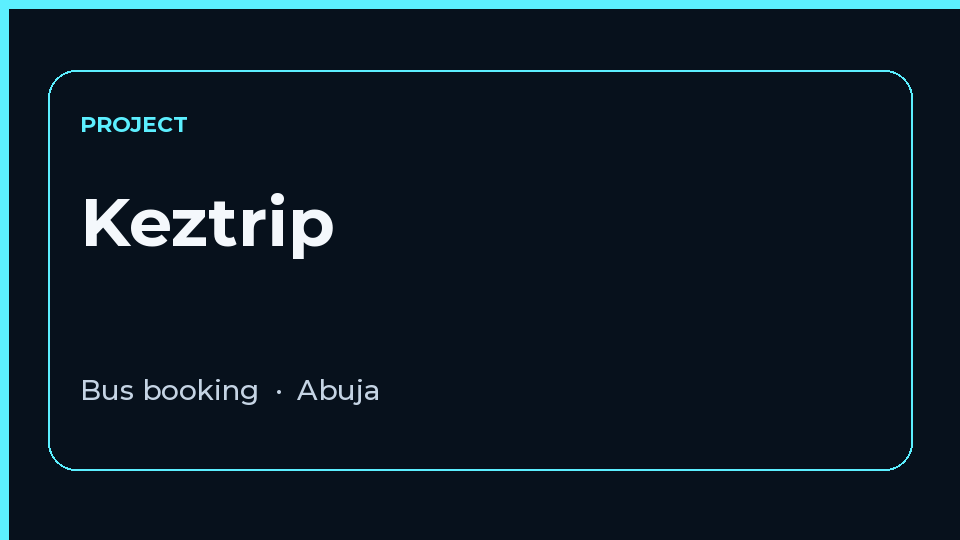
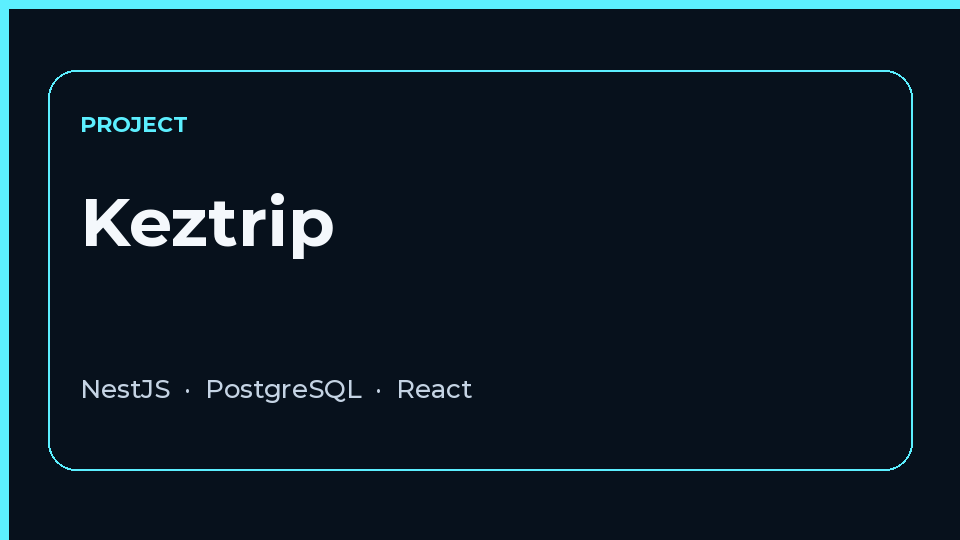
Describe Kehinde's Keztrip backend and admin dashboard.
Use the NestJS, PostgreSQL, React, and TypeScript work he confirmed, and link the site plus the store listings it publishes.

Changed region(s): [[0.0625, 0.6815, 0.5, 0.7704]]

diff --git a/index.html b/index.html
@@ -266,16 +266,23 @@
           <!-- No verified public URL for Sportsbook or Flight-Man. MEGA Flight is a 2025 Incentive Games title and is not the CV's Flight-Man, so it is not linked. -->
           <ul class="project-grid">
             <li>
-              <!-- TODO: add Kehinde's role and stack on Keztrip. This is not on the CV; fill in title and technologies here. -->
               <article class="project-card">
                 <img class="project-thumb" src="assets/projects/keztrip.png" width="960" height="540" alt="" decoding="async">
                 <div class="project-body">
                   <h3>Keztrip</h3>
-                  <p>Worked on Keztrip, a bus booking app based in Abuja.</p>
-                  <ul class="tags" aria-label="Company">
+                  <p>Built the NestJS and PostgreSQL backend, and the React and TypeScript admin dashboard, for Keztrip, a bus ride-hailing app in Abuja.</p>
+                  <ul class="tags" aria-label="Company and technologies">
                     <li class="tag-company">Keztrip</li>
+                    <li>NestJS</li>
+                    <li>PostgreSQL</li>
+                    <li>React</li>
+                    <li>TypeScript</li>
                   </ul>
-                  <a class="project-cta" href="https://keztrip.com/" target="_blank" rel="noopener noreferrer">Visit site<span class="visually-hidden"> for Keztrip (opens in a new tab)</span></a>
+                  <div class="project-links">
+                    <a class="project-cta" href="https://keztrip.com/" target="_blank" rel="noopener noreferrer">Visit site<span class="visually-hidden"> for Keztrip (opens in a new tab)</span></a>
+                    <a class="project-cta" href="https://play.google.com/store/apps/details?id=com.keztrip.app" target="_blank" rel="noopener noreferrer">Google Play<span class="visually-hidden"> for Keztrip (opens in a new tab)</span></a>
+                    <a class="project-cta" href="https://apps.apple.com/ng/app/keztrip/id6775054855" target="_blank" rel="noopener noreferrer">App Store<span class="visually-hidden"> for Keztrip (opens in a new tab)</span></a>
+                  </div>
                 </div>
               </article>
             </li>

diff --git a/styles.css b/styles.css
@@ -651,6 +651,14 @@ h3 {
   margin-top: 0.55rem;
 }
 
+.project-links {
+  display: flex;
+  flex-wrap: wrap;
+  gap: 0.35rem 1rem;
+  margin-top: auto;
+  padding-top: 1rem;
+}
+
 .project-cta {
   margin-top: auto;
   padding-top: 1rem;
@@ -658,6 +666,11 @@ h3 {
   font-weight: 700;
   text-decoration: none;
   text-underline-offset: 0.2em;
+}
+
+.project-links .project-cta {
+  margin-top: 0;
+  padding-top: 0;
 }
 
 .project-cta:hover {

diff --git a/README.md b/README.md
@@ -16,4 +16,4 @@ Publish from the default branch at `/` (root). `.nojekyll` is included so Pages 
 
 The CV download is [assets/Kehinde-Ogunde-CV.pdf](assets/Kehinde-Ogunde-CV.pdf).
 
-Keztrip links to [keztrip.com](https://keztrip.com/). Its role and stack are still a TODO in `index.html`. MBL HighTech and Incentive Games cards have no outbound links; public pages for those CV names were not verified. Andela cards in Earlier projects link to the matching repositories under [github.com/coach-K](https://github.com/coach-K). Homie has no verified store URL; see the TODO comments in `index.html`. The Writing section links the verified Medium article only.
+Keztrip links to [keztrip.com](https://keztrip.com/), plus the Google Play and App Store listings that the site itself points to. MBL HighTech and Incentive Games cards have no outbound links; public pages for those CV names were not verified. Andela cards in Earlier projects link to the matching repositories under [github.com/coach-K](https://github.com/coach-K). Homie has no verified store URL; see the TODO comments in `index.html`. The Writing section links the verified Medium article only.
